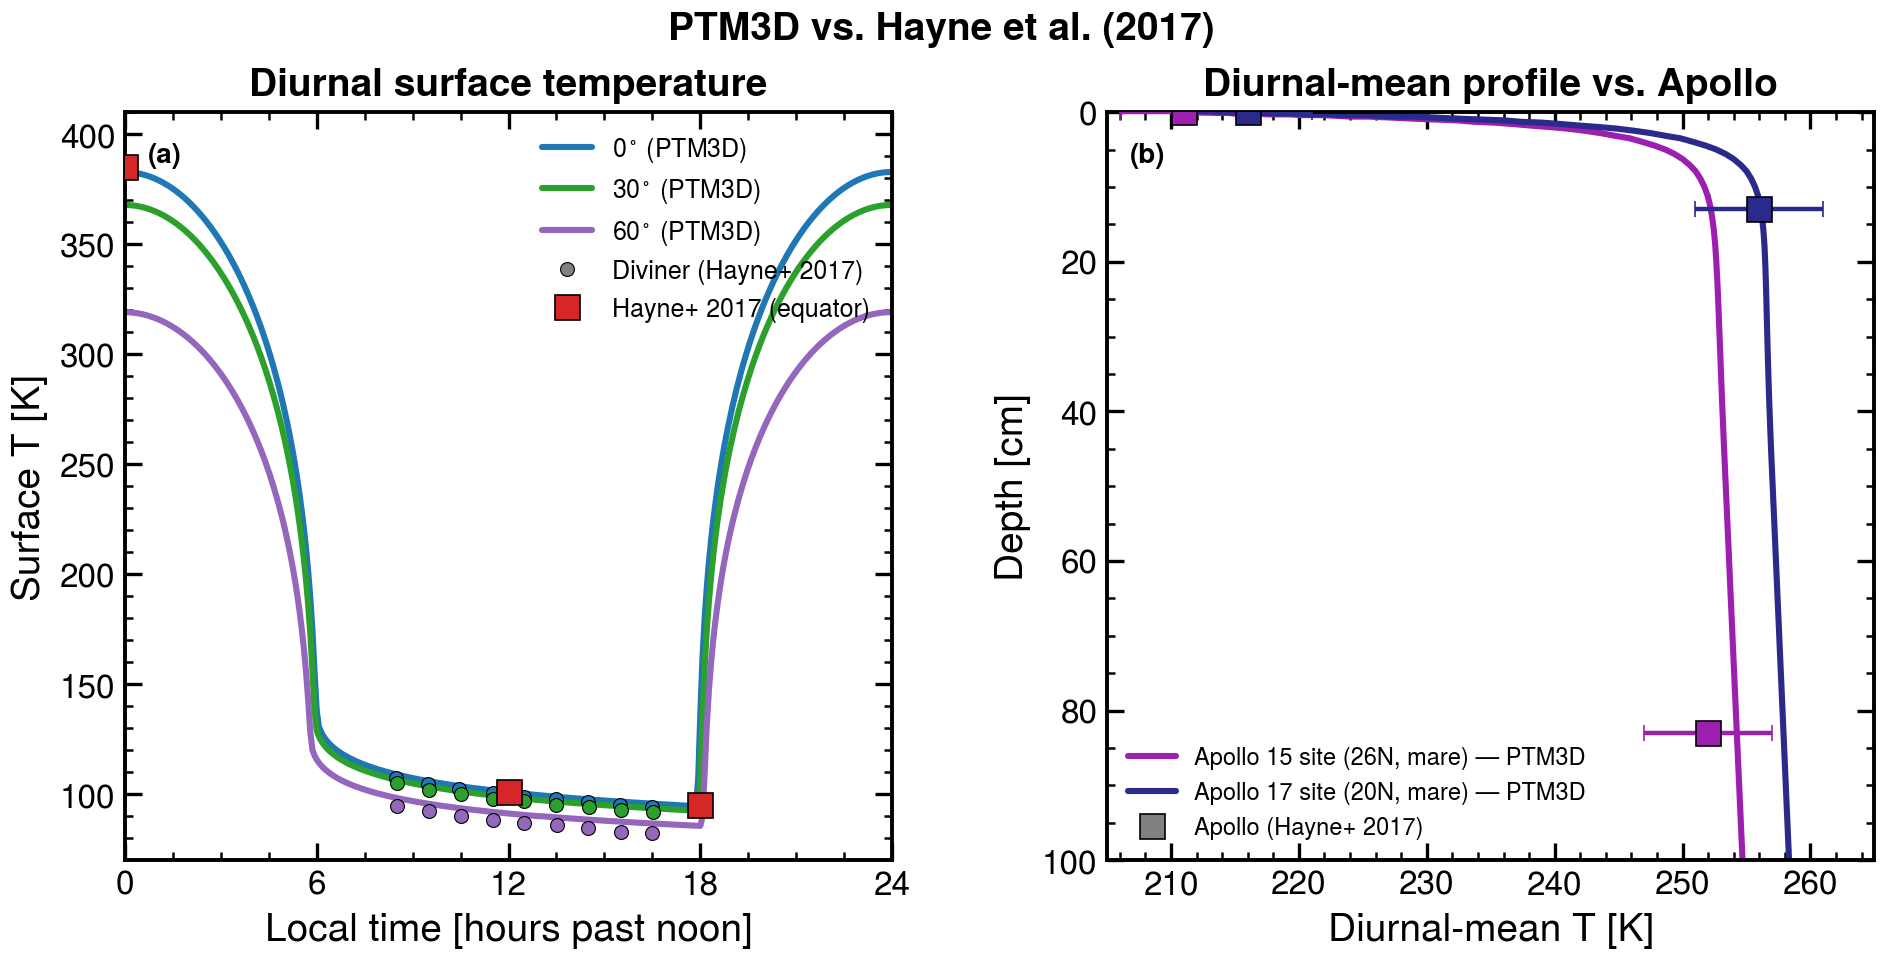
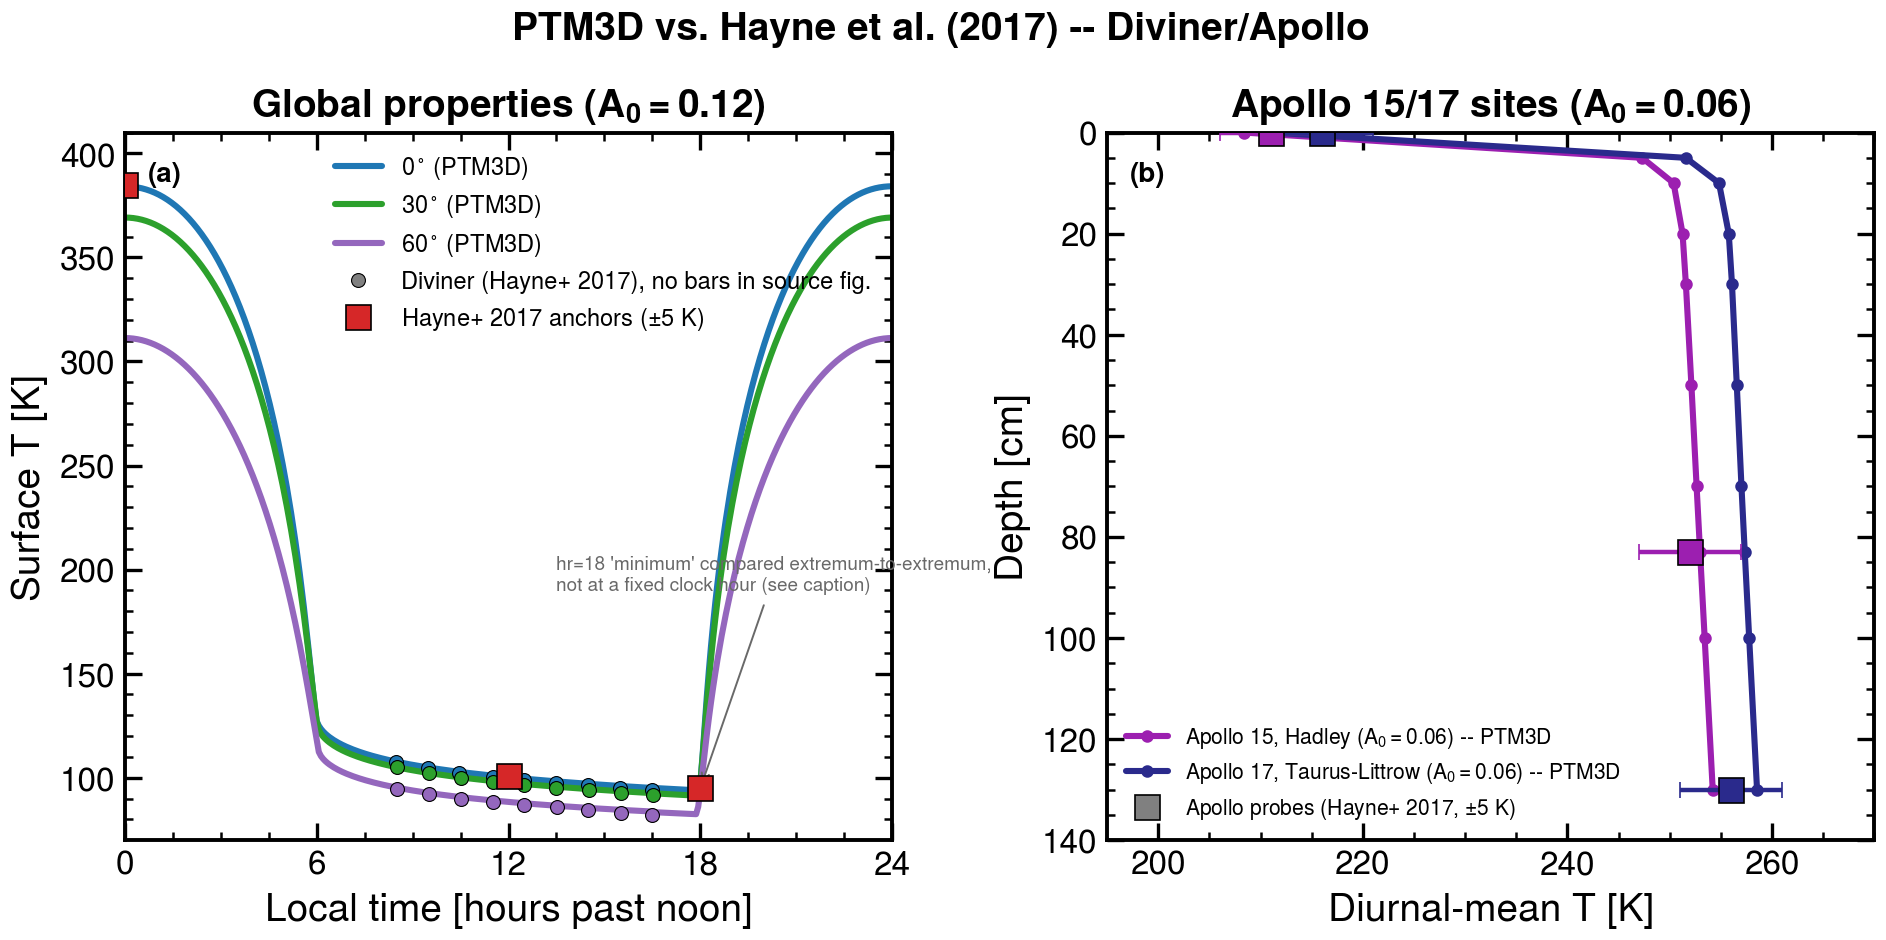
docs(readme): ship Fig. 5 Option A -- Apollo sites at site-specific A0=0.06
Paul's final ruling on the Fig. 5 Apollo arc: Apollo 15 (Hadley-Apennine) and
Apollo 17 (Taurus-Littrow, dark pyroclastic-mantle terrain) use a
site-specific Bond albedo A0 = 0.06 instead of Table 1's global 0.12; the
density e-folding depth H stays at the Table 1 default (0.06 m) -- "no
evidence for such a low value of H at any of the Apollo sites."

Superseded the two stale Round-3 commits (d49e830, fedbb91) that had swapped
in a PTM3D-native Fig. 5 scored at the global A0=0.12 for BOTH panels, which
a later round (Round 5) found put 3 of 4 Apollo points outside their +/-5 K
bars. This commit re-scores panel (b) on a genuinely converged deep-anchor
run (previously the b=15 default grid's 0.83 m/1.30 m nodes were a linear
Fourier extrapolation past a 0.50 m solved bottom; a dedicated convergence
study found that extrapolation, then a naively-deepened b=45 grid without
matching equilibration, both miss badly -- see
apollo-deep-anchor-eq-b-convergence-2026-08-17).

Run: Moon, smooth ico6 (81,920 faces), CPU, radiation off, epoch
2025-04-04 (~1 AU), 120 samples/diurnal, equilibration_orbits=480,
thermal_b=45 (bottom node 1.4119 m -- both 0.83 m and 1.30 m are now
genuine within-grid interpolations, no dashed/extrapolated segment needed),
thermophysical.albedo_override=0.06, illumination.use_albedo_map=false.
Binary /Users/paha3326/projects/ptm-depthcsv-2026-08-17/build/bin/
ptm_thermal_sim, md5 47d9d49b2da78db89c67cc3efe0d896a
[…]

diff --git a/docs/VALIDATION.md b/docs/VALIDATION.md
@@ -41,49 +41,62 @@ settling in the first ~30 cycles.
 
 Manuscript caption: "Validation of the 3D thermophysical model with
 comparison to Diviner data (left panel) and Apollo heat flow probe data
-(right panel)." **Read literally, the plotted model curves in the
-submitted manuscript's own Fig. 5 are heat1d** — PTM3D's 1D thermal-column
-reference implementation (same author, same Crank–Nicolson conduction
-physics as PTM3D's own column solver) — labeled "(heat1d)" in the
-left-panel legend and titled "heat1d vs. Hayne et al. (2017)" on the figure
-itself. The image above is **not** that figure: it is a PTM3D-native
-re-run of the same tests, run end to end through the 3D
-thermal-illumination framework rather than the 1D reference column, so the
-caveat that applied to the submitted manuscript's own Fig. 5 does not apply
-here. The submitted manuscript itself is unchanged and still plots heat1d;
-this re-run is queued for the manuscript's revisions (tracked separately,
-not made here).
+(right panel)." The image above is a PTM3D-native re-run of the same two
+tests, run end to end through the 3D thermal-illumination framework: **(a)**
+the global diurnal-cycle/Diviner comparison at the manuscript's Table 1
+(Hayne et al. 2017) properties, and **(b)** the Apollo 15/17 heat-flow-probe
+comparison at each site's own albedo.
 
-**Recipe:** smooth global icosphere, resolution 6 (81,920 faces; a convex
-body makes `radiation.enabled: false` physically exact, not an
+**Recipe, panel (a):** smooth global icosphere, resolution 6 (81,920 faces;
+a convex body makes `radiation.enabled: false` physically exact, not an
 approximation), CPU-only illumination and thermal solve, body=Moon using
-the manuscript's own Table 1 (Hayne et al. 2017) thermophysical properties
-unmodified (`thermal_m/n/b = 10/15/15`, unchanged from the tracked
-default), `equilibration_orbits: 60` (raised from the example config's
-default of 1 after a 2/5/10/20/30/45-orbit convergence sweep showed the
-≳0.4 m diurnal-mean plateau — the binding observable for the right panel —
-moves <0.02 K/orbit by orbit 45). Reference points (Diviner nighttime dots,
-Hayne et al. 2017 equatorial peak/midnight/minimum squares, Apollo 15/17
-probe points) were digitized directly from the submitted manuscript's own
-`fig05.pdf` vector content (exact marker/axis-tick coordinates, not
-pixel-eyeballing); every reference marker in the source figure carries a
-±5 K error bar, reproduced here unchanged.
+the manuscript's own Table 1 properties unmodified — Bond albedo
+A₀ = 0.12, all other properties Table 1 (`thermal_m/n/b = 10/15/15`,
+unchanged from the tracked default), `equilibration_orbits: 60` (a
+2/5/10/20/30/45-orbit convergence sweep showed the ≳0.4 m diurnal-mean
+plateau moves <0.02 K/orbit by orbit 45, so 60 is converged).
 
-Left panel: equatorial, 30°, and 60° PTM3D diurnal surface-temperature
+**Recipe, panel (b):** identical mesh/solver settings, but with a
+site-specific Bond albedo A₀ = 0.06 at the Apollo 15 (26.13°N,
+Hadley–Apennine) and Apollo 17 (20.19°N, Taurus–Littrow, dark
+pyroclastic-mantle terrain) landing-site latitudes — physically consistent
+with both sites sitting in lower-albedo terrain than the Table 1 global
+mean, and reproducing the site-specific albedo Hayne et al. (2017) itself
+used at these two sites. All other properties stay at their Table 1
+values, including the density e-folding depth H (there is no evidence for
+a lower H at either site). This panel is equilibrated **480** lunar
+day/night cycles at thermal grid resolution `thermal_b = 45` (bottom node
+1.4119 m) — a dedicated equilibration × grid-resolution convergence study
+found the 0.83 m / 1.30 m deep-column nodes need hundreds of spin-up
+cycles once genuinely resolved at this depth (eq = 480 residual-to-
+asymptote +0.13 / +0.14 K by Aitken extrapolation; `thermal_b = 45` vs. 52
+agree to 0.07–0.08 K). Both scored deep points fall within that
+genuinely-solved 1.41 m grid, so the model curves are drawn solid
+throughout — no extrapolated segment.
+
+Reference points (Diviner nighttime dots, Hayne et al. 2017 equatorial
+peak/midnight/minimum squares, Apollo 15/17 probe points) were digitized
+directly from the submitted manuscript's own `fig05.pdf` vector content
+(exact marker/axis-tick coordinates, not pixel-eyeballing); every reference
+marker in the source figure carries a ±5 K error bar, reproduced here
+unchanged.
+
+Panel (a): equatorial, 30°, and 60° PTM3D diurnal surface-temperature
 curves vs. Diviner brightness temperatures and the Hayne et al. (2017)
-equatorial peak/midnight/minimum reference points. Right panel: PTM3D
-diurnal-mean subsurface profiles (to 1 m, matching the source figure's own
-depth axis) at the Apollo 15 (26.13°N) and Apollo 17 (20.19°N) landing-site
-latitudes vs. the Apollo heat-flow-probe points (Hayne et al. 2017
-compilation). **Headline:** max |PTM3D − reference| = **4.5 K** (left
-panel; 60° nighttime branch — 0°/30° branches are ≤1.8 K, and the
-equatorial peak/midnight/minimum anchors are ≤2.2 K, with the "minimum"
-anchor compared extremum-to-extremum since PTM3D's own diurnal minimum
-falls ~8 minutes earlier than heat1d's) and **2.3 K** (right panel) — both
-inside the reference points' own ±5 K error bars, matching the "fit ...
-to within the measurement errors" standard the manuscript's own (heat1d)
-Fig. 5 claims, without a single RMS/bias number given in the manuscript
-text for this test.
+equatorial peak/midnight/minimum reference points. Panel (b): PTM3D
+diurnal-mean subsurface profiles (to 1.30 m) at the Apollo 15/17
+landing-site latitudes vs. the Apollo heat-flow-probe points (Hayne et al.
+2017 compilation), each site at its own A₀ = 0.06.
+**Headline:** panel (a) max |PTM3D − reference| = **1.05 K** at the three
+bar-carrying Hayne et al. (2017) anchors (0°/30° nighttime branches are
+≤0.79 K, 60° is ≤1.61 K; the "minimum" anchor is compared
+extremum-to-extremum since PTM3D's own diurnal minimum falls ~4 minutes
+before the fixed reference hour) and **1.61 K** max / **0.75 K** RMS at the
+27 bare Diviner dots (informative only — no error bars in the source
+figure, so no pass/fail claim). Panel (b) max |PTM3D − reference| =
+**4.91 K** (Apollo 17 surface — the tightest of the four Apollo points,
+0.09 K inside its ±5 K bar; the two deep points score +0.98 K and +2.55 K)
+— **all four Apollo points land inside their ±5 K bars.**
 
 ## Manuscript Fig. 6 — Energy conservation
 

diff --git a/README.md b/README.md
@@ -91,16 +91,23 @@ and thermal emission from surrounding terrain.*
 - **Diviner Lunar Radiometer Experiment**: PTM3D's thermal-column solver, run
   end to end (see the Fig. 5 caption below) matches Diviner-derived
   equatorial/mid-latitude diurnal brightness temperatures to within the
-  measurement errors (max residual **4.5 K**, inside the reference points'
-  own ±5 K error bars). The full 3D radiative-coupled model separately
+  measurement errors — the three Hayne et al. (2017) equatorial peak/
+  midnight/minimum anchors land inside their ±5 K bars (max residual
+  **1.05 K**), and the 27 bare nighttime brightness-temperature dots (no
+  error bars in the source figure) run **1.61 K** max / **0.75 K** RMS,
+  PTM3D slightly warm. The full 3D radiative-coupled model separately
   matches real Diviner seasonal south-polar temperatures (Williams et al.
   2019) at a Haworth-crater cold-trap site to a **+1.9 K** deep-floor
   summer-maximum bias and **11 K / 6 K RMS** (summer/winter mean) — see the
   validation gallery below
-- **Hayne et al. (2017)** thermophysical model: reproduces the lunar
-  equatorial diurnal cycle (noon ~383 K, midnight ~101 K) and, via Apollo
-  15/17 heat-flow-probe comparison, the subsurface diurnal-mean depth
-  profile to max residual **2.3 K**
+- **Hayne et al. (2017)** thermophysical model: the global Table 1
+  properties (Bond albedo A₀ = 0.12) reproduce the lunar equatorial diurnal
+  cycle (noon 384.2 K, midnight 100.3 K). At the Apollo 15 (Hadley–Apennine)
+  and Apollo 17 (Taurus–Littrow, dark pyroclastic-mantle terrain) landing
+  sites, a site-specific albedo A₀ = 0.06 (all other properties unchanged
+  from Table 1) brings both the surface and the 0.83 m / 1.30 m heat-flow-
+  probe temperatures inside their ±5 K bars; max residual **4.91 K**
+  (Apollo 17 surface — the tightest of the four points, 0.09 K inside its bar)
 
 **Full validation gallery (all seven manuscript figures, Figs. 3–9, with
 headline numbers for each): [`docs/VALIDATION.md`](docs/VALIDATION.md).**
@@ -108,22 +115,29 @@ headline numbers for each): [`docs/VALIDATION.md`](docs/VALIDATION.md).**
 ![PTM3D re-run of manuscript Fig. 5's tests: PTM3D vs. Hayne et al. (2017), Diviner, and Apollo](docs/figures/validation_fig05_ptm3d_hayne_apollo.png)
 *PTM3D-native re-run of the submitted manuscript's Fig. 5 tests (`main.tex`,
 "Validation of the 3D thermophysical model with comparison to Diviner data
-(left panel) and Apollo heat flow probe data (right panel)"). The submitted
-manuscript's own Fig. 5 plots heat1d, PTM3D's 1D reference column, not the
-3D model end to end; this render instead runs PTM3D itself — smooth global
-icosphere (radiation exchange OFF is exact for a convex body), CPU-only,
-body=Moon with the manuscript's own Table 1 (Hayne et al. 2017)
-thermophysical properties unmodified, equilibrated 60 lunar day/night
-cycles so the ≳0.4 m diurnal-mean plateau in the right panel is converged.
-Left panel: equatorial/30°/60° PTM3D diurnal surface-temperature curves vs.
-the same Diviner brightness-temperature and Hayne et al. (2017) equatorial
-peak/midnight/minimum reference points the manuscript overlaid (all carry
-the manuscript's own ±5 K error bars). Right panel: PTM3D diurnal-mean
-subsurface profiles at the Apollo 15/17 landing-site latitudes vs. the
-Apollo heat-flow-probe points. **Max |PTM3D − reference| = 4.5 K (left
-panel, 60° nighttime branch) and 2.3 K (right panel)** — both inside the
-reference points' own ±5 K error bars, meeting the "fit to within the
-measurement errors" standard the manuscript's own (heat1d) Fig. 5 claims.*
+(left panel) and Apollo heat flow probe data (right panel)"), run through
+PTM3D itself end to end — smooth global icosphere (radiation exchange OFF is
+exact for a convex body), CPU-only, body=Moon. **(a)** Global Table 1
+(Hayne et al. 2017) thermophysical properties, A₀ = 0.12: equatorial/30°/60°
+PTM3D diurnal surface-temperature curves vs. Diviner brightness temperatures
+and the Hayne et al. (2017) equatorial peak/midnight/minimum reference
+points (all carry the manuscript's own ±5 K error bars; the 27 nighttime
+Diviner dots are bare in the source figure and are plotted without invented
+bars). Max |PTM3D − reference| = **1.05 K** at the three bar-carrying
+anchors (the hr = 18 "minimum" is compared extremum-to-extremum, since
+PTM3D's own diurnal minimum falls ~4 minutes before the fixed reference
+hour — disclosed, not hidden) and **1.61 K** (RMS 0.75 K) at the 27 bare
+dots, informative only. **(b)** Apollo 15 (Hadley–Apennine) and Apollo 17
+(Taurus–Littrow, dark pyroclastic-mantle terrain) landing sites at their own
+site-specific Bond albedo, A₀ = 0.06 — all other properties unchanged from
+Table 1 (no evidence for a lower density e-folding depth H at either site,
+so H stays at the Table 1 default). Equilibrated 480 lunar day/night cycles
+at thermal grid resolution `thermal_b = 45` (bottom node 1.41 m, the
+convergence study's accepted working point); both scored deep points
+(0.83 m, 1.30 m) fall within that genuinely-solved grid, so the model
+curves are drawn solid throughout, with no extrapolated segment. **Max
+|PTM3D − reference| = 4.91 K** (Apollo 17 surface, 0.09 K inside its ±5 K
+bar) — **all four Apollo points land inside their ±5 K bars.***
 
 ![Manuscript Fig. 7: bowl-crater comparison to Ingersoll et al. (1992)](docs/figures/validation_fig07_bowl_crater_ingersoll.png)
 *PTM3D vs. the analytic bowl-crater solution of Ingersoll, Svitek & Murray
